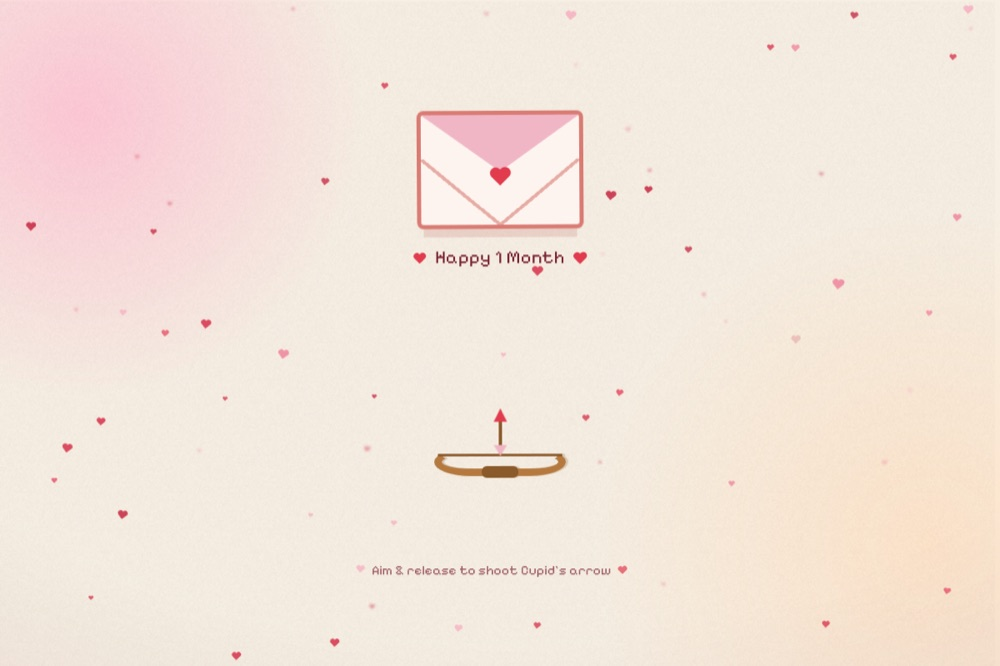
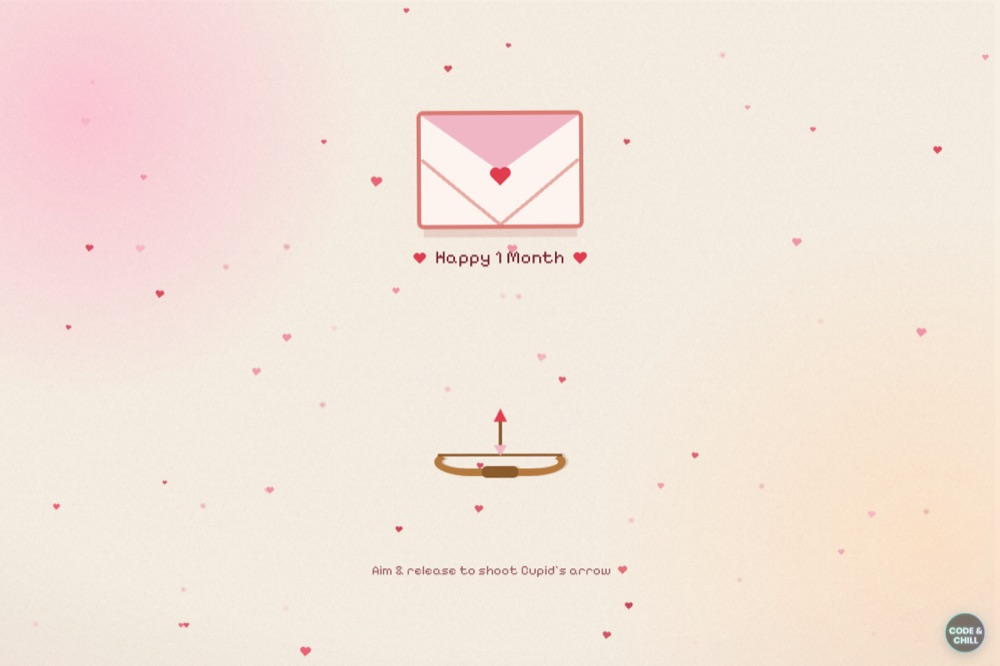
Add Code & Chill channel watermark + README credit

diff --git a/love.css b/love.css
@@ -601,4 +601,27 @@ body{
   .confetti .heart{ animation:none; opacity:.55; }
   .window, .stage--aim, .final, .btn{ transition-duration:.001s; }
   .burst, .trail, .rainheart, .confetti-heart{ display:none; }
+  .brand{ transition:none; }
+  .brand:hover, .brand:focus-visible{ transform:none; }
+}
+
+/* ============================================================
+   CHANNEL WATERMARK
+   ============================================================ */
+.brand{
+  position:fixed; right:18px; bottom:16px; z-index:50;
+  display:block; width:48px; height:48px;
+  border-radius:50%; overflow:hidden;
+  opacity:.5;
+  box-shadow:0 4px 14px rgba(0,0,0,.28), 0 0 16px rgba(70,205,255,.28);
+  transition:opacity .35s ease, transform .35s ease;
+  -webkit-tap-highlight-color:transparent;
+}
+.brand img{
+  display:block; width:100%; height:100%;
+  object-fit:cover; transform:scale(1.08);
+}
+.brand:hover, .brand:focus-visible{ opacity:1; transform:scale(1.07); outline:none; }
+@media (max-width:480px){
+  .brand{ width:40px; height:40px; right:12px; bottom:12px; }
 }

diff --git a/index.html b/index.html
@@ -92,6 +92,12 @@
     </section>
   </main>
 
+  <!-- channel watermark -->
+  <a class="brand" id="brand" href="https://www.youtube.com/@CodeChill_a"
+     target="_blank" rel="noopener noreferrer" aria-label="Code &amp; Chill on YouTube">
+    <img src="./logo.png" alt="Code &amp; Chill" width="48" height="48" />
+  </a>
+
   <script type="module" src="./love.js"></script>
 </body>
 </html>

diff --git a/README.md b/README.md
@@ -14,6 +14,8 @@ hearts. 🎯❤️
 
 ### ▶︎ **[Open the live demo →](https://hasib41.github.io/love-letter/)**
 
+<sub>by <a href="https://www.youtube.com/@CodeChill_a"><b>Code &amp; Chill</b></a> 💙</sub>
+
 ![Preview of the love letter page](preview.jpg)
 
 ---
@@ -99,4 +101,11 @@ It's just static files, so it hosts anywhere with no config:
 
 ---
 
-<sub>Made with love.</sub>
+<a href="https://www.youtube.com/@CodeChill_a">
+  <img src="logo.png" alt="Code &amp; Chill" width="56" align="left" hspace="10" />
+</a>
+
+**Made with love by [Code &amp; Chill](https://www.youtube.com/@CodeChill_a).**
+If you build something with it, a ⭐ and a subscribe make my day. 💙
+
+<br clear="left" />